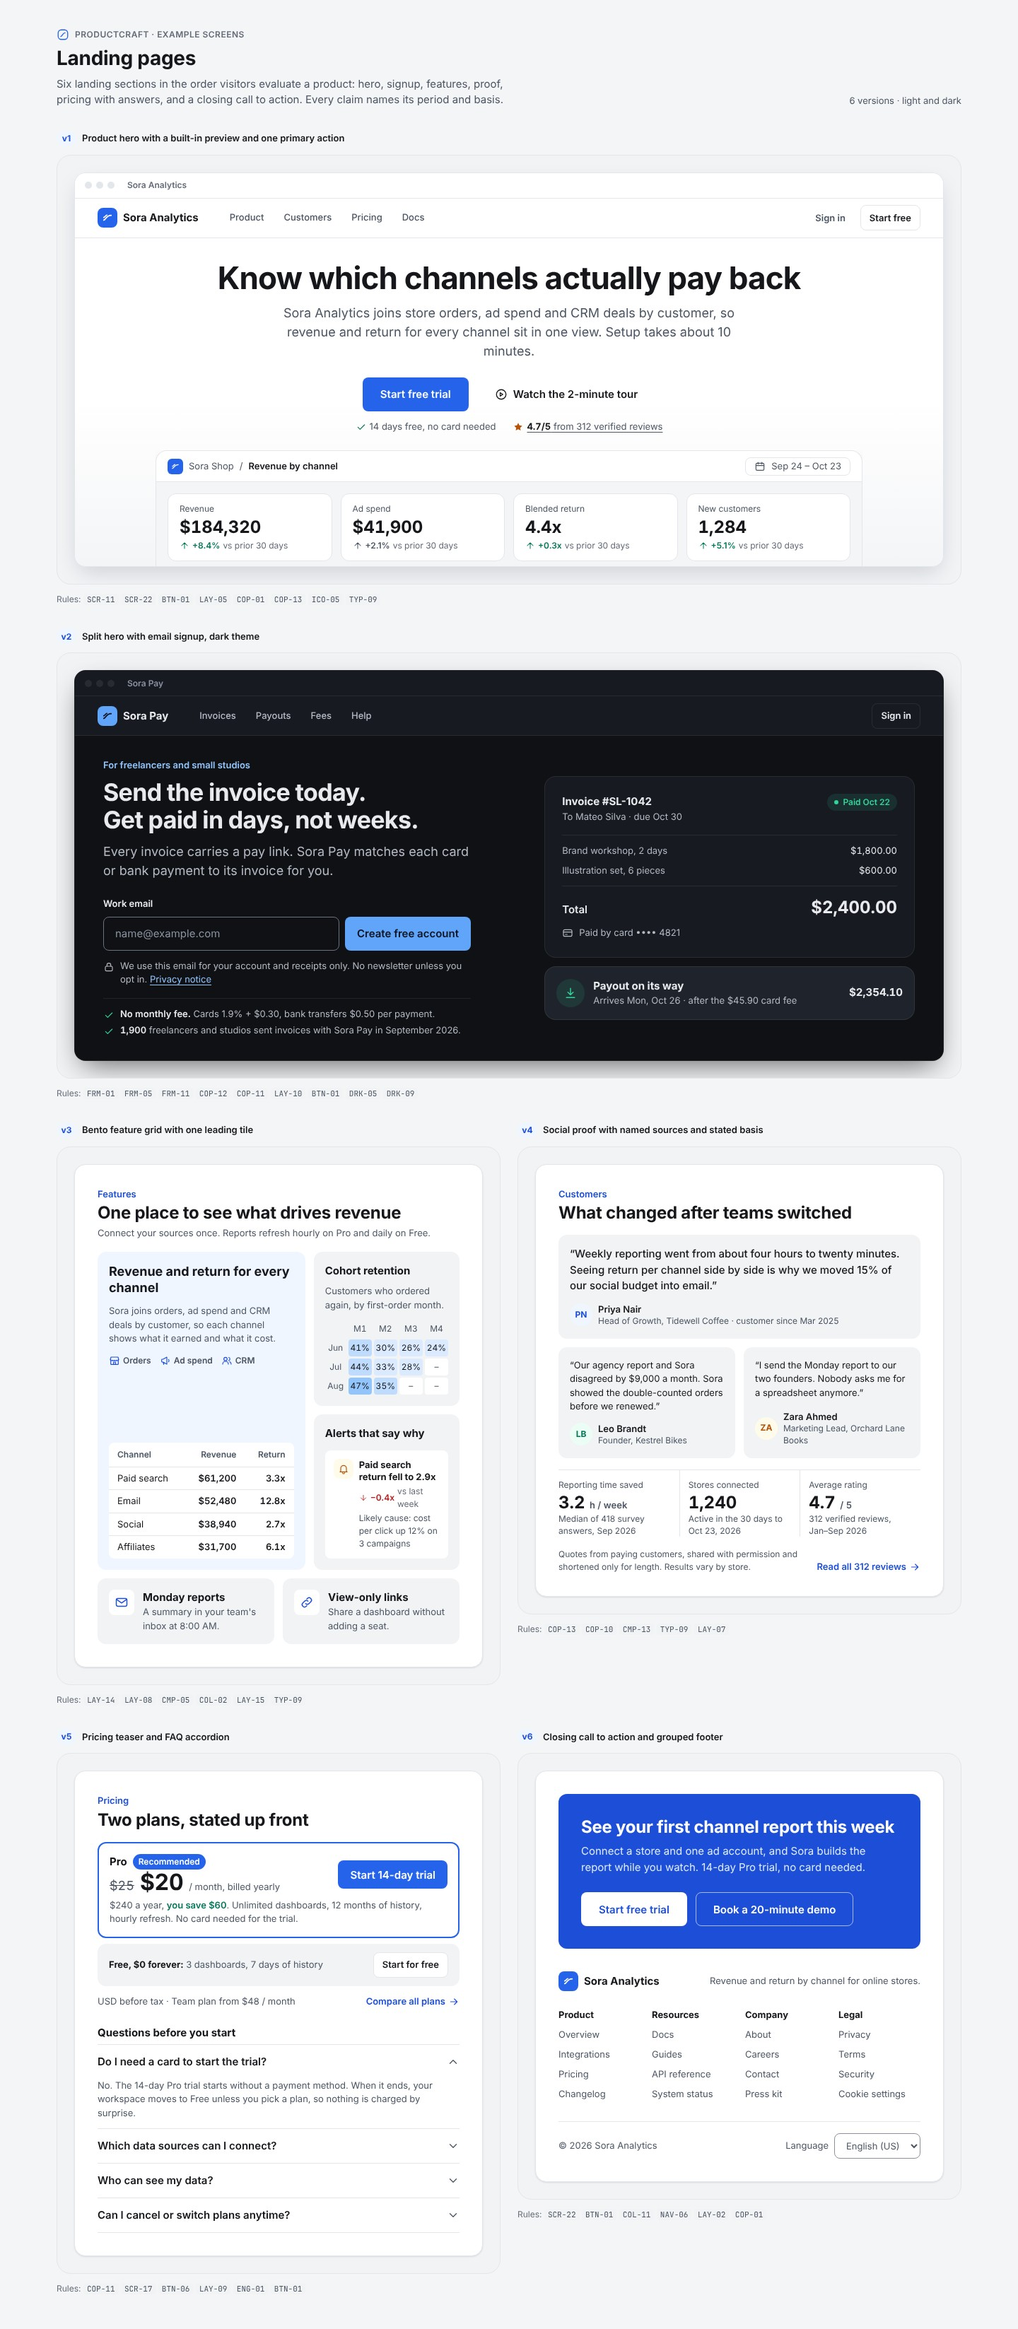
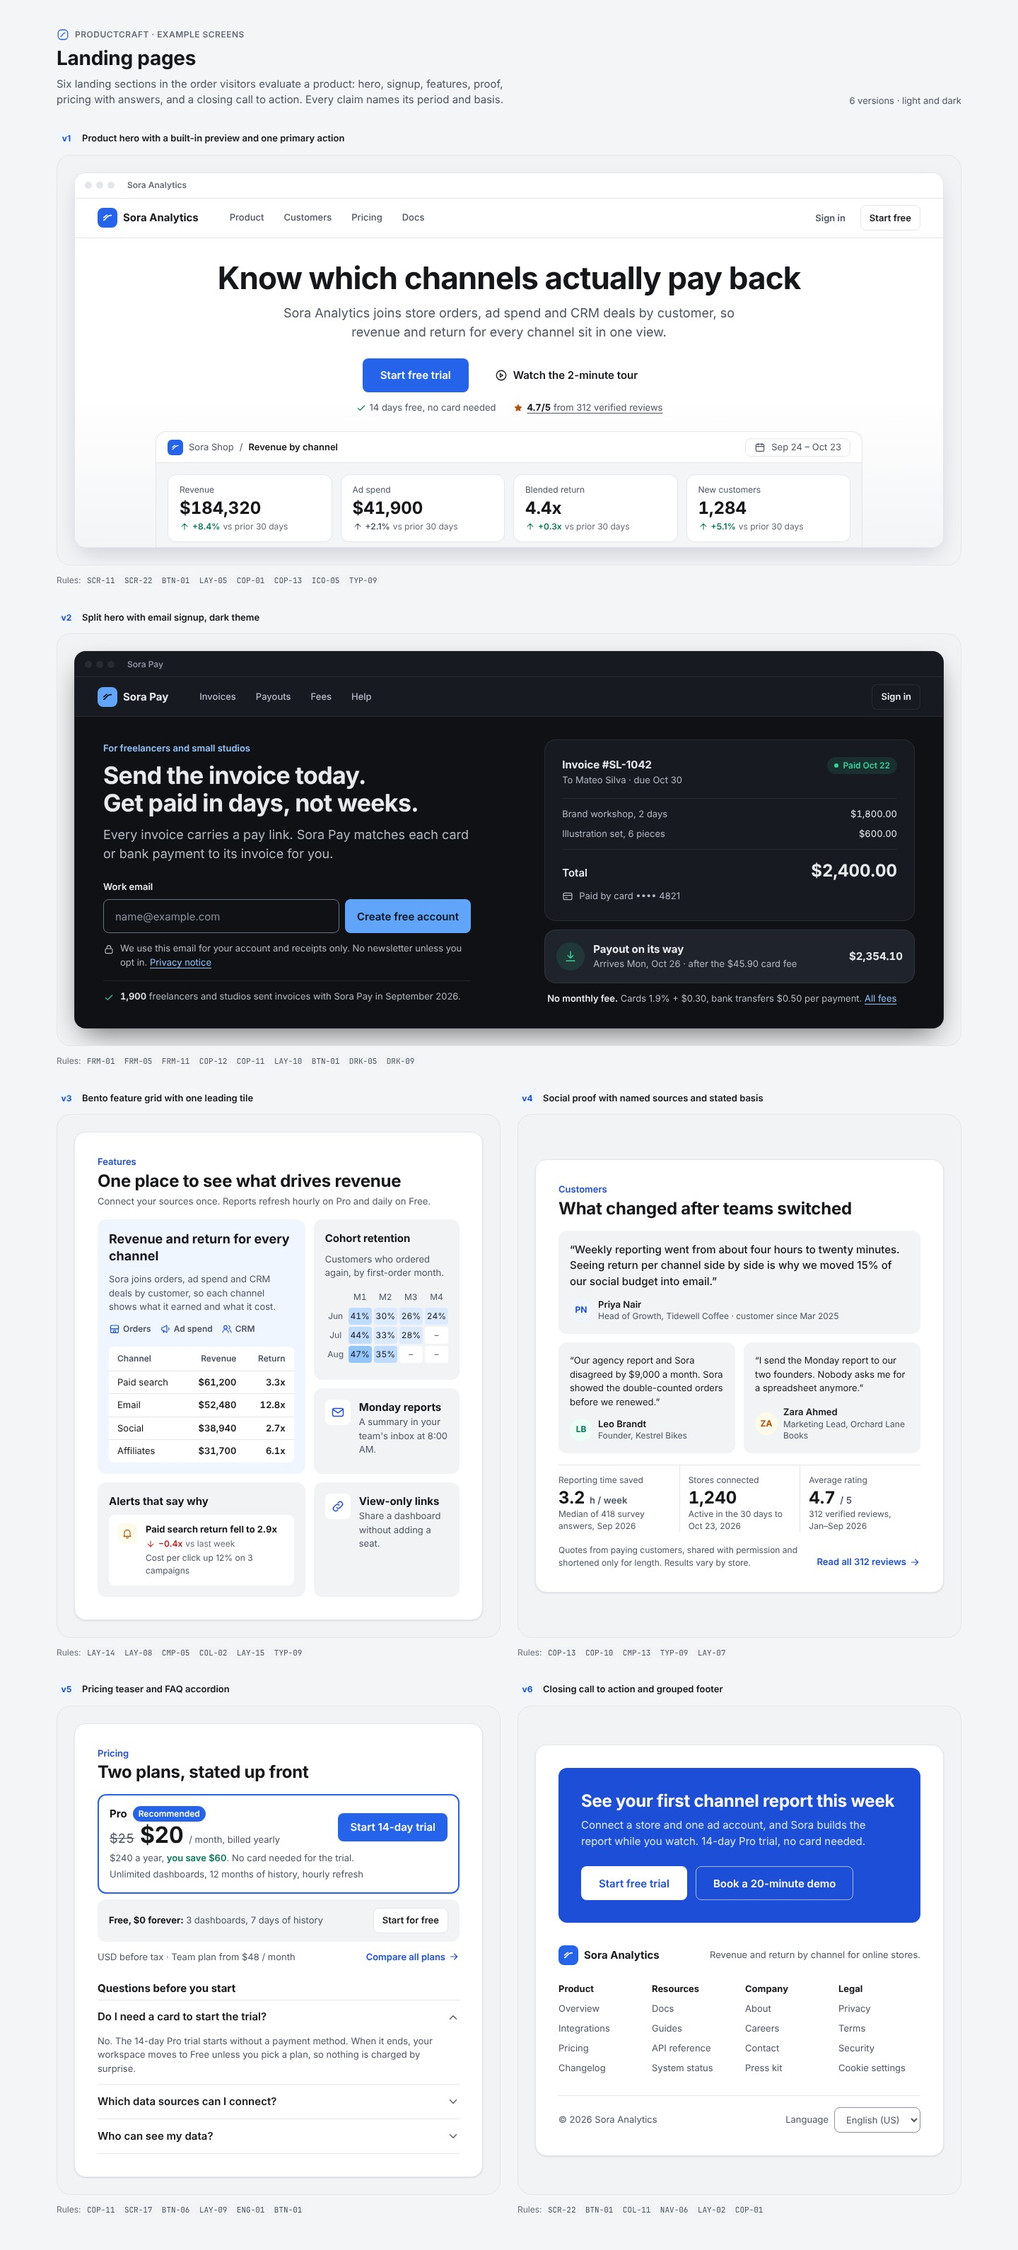
WIP: reference screens checkpoint
Claude-Session: https://claude.ai/code/session_018HZxTX6uw8LKZaqiiAUisJ

diff --git a/skills/productcraft/examples/landing.html b/skills/productcraft/examples/landing.html
@@ -24,7 +24,7 @@
       color: var(--text);
     }
 
-    .variant-stage { grid-template-columns: minmax(0, 1fr); padding: var(--space-5); }
+    .variant-stage { flex: 1; grid-template-columns: minmax(0, 1fr); padding: var(--space-5); }
     .window { color: var(--text); }
     .window-bar .title { margin-left: var(--space-3); font-size: var(--text-xs); color: var(--text-3); font-weight: 600; }
     svg.i { width: 20px; height: 20px; flex: none; }
@@ -104,8 +104,10 @@
     .privacy { display: flex; gap: var(--space-2); margin-top: var(--space-3); font-size: var(--text-sm); color: var(--text-2); }
     .privacy svg { width: 16px; height: 16px; margin-top: 3px; flex: none; color: var(--text-2); }
     .privacy a { text-decoration: underline; text-underline-offset: 3px; }
-    .facts { display: grid; gap: var(--space-1); max-width: 520px; margin-top: var(--space-4); padding-top: var(--space-3); border-top: 1px solid var(--border); font-size: var(--text-sm); color: var(--text-2); }
-    .facts li { display: flex; gap: var(--space-2); align-items: flex-start; }
+    .facts { display: flex; gap: var(--space-2); align-items: flex-start; max-width: 520px; margin-top: var(--space-4); padding-top: var(--space-3); border-top: 1px solid var(--border); font-size: var(--text-sm); color: var(--text-2); }
+    .fees { padding: 0 var(--space-1); font-size: var(--text-sm); color: var(--text-2); }
+    .fees strong { color: var(--text); font-weight: 600; }
+    .fees a { text-decoration: underline; text-underline-offset: 3px; }
     .facts svg { width: 16px; height: 16px; margin-top: 3px; flex: none; color: var(--success); }
     .facts strong { color: var(--text); font-weight: 600; }
 
@@ -140,13 +142,14 @@
     .tile-lead { grid-column: 1 / span 7; grid-row: span 2; gap: var(--space-3); background: var(--accent-soft); }
     .tile-lead h4 { font-size: var(--text-lg); line-height: 1.3; }
     .tile-side { grid-column: span 5; }
-    .tile-half { grid-column: span 6; flex-direction: row; align-items: flex-start; gap: var(--space-3); }
+    .tile-row { flex-direction: row; align-items: flex-start; gap: var(--space-3); }
+    .tile-wide { grid-column: span 7; }
     .tile-icon { display: grid; place-items: center; width: 36px; height: 36px; flex: none; border-radius: var(--radius-sm); background: var(--surface); color: var(--accent-ink); }
     .tile-icon svg { width: 20px; height: 20px; }
     .sources { display: flex; flex-wrap: wrap; gap: var(--space-1) var(--space-3); font-size: var(--text-xs); font-weight: 600; color: var(--text-2); }
     .sources li { display: inline-flex; align-items: center; gap: var(--space-1); }
     .sources svg { width: 16px; height: 16px; color: var(--accent-ink); }
-    .mini-table { width: 100%; margin-top: auto; border-collapse: collapse; background: var(--surface); border-radius: var(--radius-sm); font-size: var(--text-sm); overflow: hidden; }
+    .mini-table { width: 100%; margin-top: var(--space-1); border-collapse: collapse; background: var(--surface); border-radius: var(--radius-sm); font-size: var(--text-sm); overflow: hidden; }
     .mini-table th { padding: var(--space-2) var(--space-3); text-align: left; font-size: var(--text-xs); font-weight: 600; color: var(--text-2); border-bottom: 1px solid var(--border); }
     .mini-table td { padding: 6px var(--space-3); border-bottom: 1px solid var(--border); }
     .mini-table tr:last-child td { border-bottom: 0; }
@@ -159,12 +162,13 @@
     .cohort .c3 { background: #bfdbfe; color: var(--text); }
     .cohort .c2 { background: #dbeafe; color: var(--text); }
     .cohort .c1 { background: var(--surface); color: var(--text-2); }
-    .alert-row { display: grid; grid-template-columns: 28px minmax(0, 1fr); gap: var(--space-2); margin-top: var(--space-1); padding: var(--space-3); border-radius: var(--radius-sm); background: var(--surface); }
+    .alert-row { display: grid; grid-template-columns: 28px minmax(0, 1fr); gap: var(--space-3); padding: var(--space-3); border-radius: var(--radius-sm); background: var(--surface); }
     .alert-row .tile-icon { width: 28px; height: 28px; background: var(--warning-soft); color: var(--warning); }
     .alert-row .tile-icon svg { width: 16px; height: 16px; }
     .alert-row strong { display: block; font-size: var(--text-sm); line-height: 1.35; }
-    .alert-row .delta { margin-top: 2px; font-size: var(--text-xs); }
-    .alert-cause { display: block; margin-top: 2px; font-size: var(--text-xs); color: var(--text-2); }
+    .alert-row .delta { font-size: var(--text-xs); }
+    .alert-cause { font-size: var(--text-xs); color: var(--text-2); }
+    .alert-meta { display: flex; flex-wrap: wrap; align-items: center; gap: 2px var(--space-2); margin-top: 2px; }
 
     /* v4 honest social proof: named people, roles, scale, sample size and period (COP-13) */
     .quote { display: flex; flex-direction: column; justify-content: space-between; gap: var(--space-3); margin: 0; padding: var(--space-4); border-radius: var(--radius-md); background: var(--surface-2); }
@@ -307,7 +311,7 @@
 
             <section class="hero" aria-labelledby="hero-title">
               <h3 class="hero-title" id="hero-title">Know which channels actually pay back</h3>
-              <p class="hero-lede">Sora Analytics joins store orders, ad spend and CRM deals by customer, so revenue and return for every channel sit in one view. Setup takes about 10 minutes.</p>
+              <p class="hero-lede">Sora Analytics joins store orders, ad spend and CRM deals by customer, so revenue and return for every channel sit in one view.</p>
               <div class="hero-actions">
                 <a class="btn btn-primary btn-lg" href="#trial">Start free trial</a>
                 <a class="btn btn-ghost btn-lg" href="#tour"><svg aria-hidden="true"><use href="#i-play"/></svg>Watch the 2-minute tour</a>
@@ -392,10 +396,7 @@
                   <p class="privacy" id="su-note"><svg aria-hidden="true"><use href="#i-lock"/></svg><span>We use this email for your account and receipts only. No newsletter unless you opt in. <a href="#privacy">Privacy notice</a></span></p>
                 </form>
 
-                <ul class="facts">
-                  <li><svg aria-hidden="true"><use href="#i-check"/></svg><span><strong>No monthly fee.</strong> Cards 1.9% + $0.30, bank transfers $0.50 per payment.</span></li>
-                  <li><svg aria-hidden="true"><use href="#i-check"/></svg><span><strong class="num">1,900</strong> freelancers and studios sent invoices with Sora Pay in September 2026.</span></li>
-                </ul>
+                <p class="facts"><svg aria-hidden="true"><use href="#i-check"/></svg><span><strong class="num">1,900</strong> freelancers and studios sent invoices with Sora Pay in September 2026.</span></p>
               </div>
 
               <div class="invoice-stack" role="img" aria-label="Example invoice #SL-1042 for $2,400.00, paid by card on Oct 22, with a payout of $2,354.10 arriving Monday, Oct 26">
@@ -416,6 +417,7 @@
                   <p><strong>Payout on its way</strong>Arrives Mon, Oct 26 · after the $45.90 card fee</p>
                   <span class="num">$2,354.10</span>
                 </div>
+                <p class="fees"><strong>No monthly fee.</strong> Cards 1.9% + $0.30, bank transfers $0.50 per payment. <a href="#fees">All fees</a></p>
               </div>
             </section>
           </div>
@@ -465,24 +467,23 @@
                 </div>
               </article>
 
-              <article class="tile tile-side">
+              <article class="tile tile-side tile-row">
+                <span class="tile-icon"><svg aria-hidden="true"><use href="#i-mail"/></svg></span>
+                <div><h4>Monday reports</h4><p>A summary in your team's inbox at 8:00 AM.</p></div>
+              </article>
+
+              <article class="tile tile-wide">
                 <h4>Alerts that say why</h4>
                 <div class="alert-row">
                   <span class="tile-icon"><svg aria-hidden="true"><use href="#i-bell"/></svg></span>
                   <div>
                     <strong>Paid search return fell to 2.9x</strong>
-                    <span class="delta delta-bad"><svg aria-hidden="true"><use href="#i-down"/></svg>&minus;0.4x <span class="period">vs last week</span></span>
-                    <span class="alert-cause">Likely cause: cost per click up 12% on 3 campaigns</span>
+                    <div class="alert-meta"><span class="delta delta-bad"><svg aria-hidden="true"><use href="#i-down"/></svg>&minus;0.4x <span class="period">vs last week</span></span><span class="alert-cause">Cost per click up 12% on 3 campaigns</span></div>
                   </div>
                 </div>
               </article>
 
-              <article class="tile tile-half">
-                <span class="tile-icon"><svg aria-hidden="true"><use href="#i-mail"/></svg></span>
-                <div><h4>Monday reports</h4><p>A summary in your team's inbox at 8:00 AM.</p></div>
-              </article>
-
-              <article class="tile tile-half">
+              <article class="tile tile-side tile-row">
                 <span class="tile-icon"><svg aria-hidden="true"><use href="#i-link"/></svg></span>
                 <div><h4>View-only links</h4><p>Share a dashboard without adding a seat.</p></div>
               </article>
@@ -545,7 +546,8 @@
                   <p class="price"><s class="num">$25</s><span class="amt num">$20</span><span class="per">/ month, billed yearly</span></p>
                 </div>
                 <a class="btn btn-primary" href="#trial">Start 14-day trial</a>
-                <p class="terms">$240 a year, <strong>you save $60</strong>. Unlimited dashboards, 12 months of history, hourly refresh. No card needed for the trial.</p>
+                <p class="terms">$240 a year, <strong>you save $60</strong>. No card needed for the trial.</p>
+                <p class="terms">Unlimited dashboards, 12 months of history, hourly refresh</p>
               </article>
               <div class="plan-free">
                 <span><strong>Free, $0 forever:</strong> 3 dashboards, 7 days of history</span>
@@ -567,10 +569,6 @@
               <details>
                 <summary>Who can see my data?<svg aria-hidden="true"><use href="#i-chevron"/></svg></summary>
                 <p>Only members you invite. Connections are read-only, data is encrypted in transit and at rest, and deleting a source deletes its data.</p>
-              </details>
-              <details>
-                <summary>Can I cancel or switch plans anytime?<svg aria-hidden="true"><use href="#i-chevron"/></svg></summary>
-                <p>Yes, from Settings. Yearly plans are refunded for unused full months, and dashboards above the Free limit become view-only.</p>
               </details>
             </div>
           </section>

diff --git a/skills/productcraft/examples/dashboard-v6.html b/skills/productcraft/examples/dashboard-v6.html
@@ -177,14 +177,15 @@
     .goal-track span { display: block; width: calc(var(--v) * 1%); height: 100%; background: var(--accent); border-radius: inherit; }
     .bars { position: relative; display: grid; grid-template-columns: repeat(8, minmax(0, 1fr)); align-items: end; gap: var(--space-2); height: 148px; margin-top: var(--space-6); border-bottom: 1px solid var(--border); }
     .bars .goal-line { position: absolute; left: 0; right: 0; bottom: calc(var(--p) * 1%); border-top: 1.5px dashed var(--text-3); pointer-events: none; }
-    .bars .goal-tag { position: absolute; right: 0; bottom: calc(var(--p) * 1% + 2px); padding-left: var(--space-1); background: var(--surface); font-size: var(--text-xs); font-weight: 600; color: var(--text-2); }
     .bar { position: relative; display: flex; flex-direction: column; align-items: center; justify-content: flex-end; height: 100%; }
-    .bar .v { font-size: 11px; font-weight: 600; color: var(--text-2); line-height: 16px; }
+    .bar .v { font-size: 11px; font-weight: 700; color: var(--text); line-height: 16px; }
+    .bar .col .v { display: block; padding-top: var(--space-1); color: var(--on-accent); text-align: center; }
     .bar .met { width: 14px; height: 14px; color: var(--success); }
-    .bar .col { width: 100%; max-width: 24px; height: calc(var(--h) * 1%); border-radius: 4px 4px 0 0; background: var(--accent); }
+    .bar .col { width: 100%; max-width: 28px; height: calc(var(--h) * 1%); border-radius: 4px 4px 0 0; background: var(--accent); }
     .bar.is-current .col { background: repeating-linear-gradient(-45deg, var(--accent) 0 3px, #d98a66 3px 6px); }
     .bar.is-current .v { color: var(--text); }
-    .bar-x { display: grid; grid-template-columns: repeat(8, minmax(0, 1fr)); gap: var(--space-2); margin-top: var(--space-2); font-size: 11px; color: var(--text-3); text-align: center; }
+    .bar-x { display: grid; grid-template-columns: repeat(8, minmax(0, 1fr)); gap: var(--space-2); margin-top: var(--space-2); font-size: 11px; color: var(--text-3); text-align: center; white-space: nowrap; }
+    .bar-x span { display: flex; justify-content: center; }
     .bar-x span:last-child { color: var(--text); font-weight: 600; }
     .chart-key { display: flex; flex-wrap: wrap; gap: var(--space-2) var(--space-4); margin-top: var(--space-3); font-size: var(--text-xs); color: var(--text-3); }
     .chart-key span { display: inline-flex; align-items: center; gap: var(--space-1); }
@@ -204,6 +205,8 @@
     .deadline-body small { display: flex; align-items: center; gap: var(--space-2); font-size: var(--text-xs); color: var(--text-3); }
     .deadline-body small i { width: 8px; height: 8px; border-radius: 2px; flex: none; }
     .kind { font-weight: 600; color: var(--text-2); }
+    .deadline-body .due { display: block; margin-top: 2px; font-size: var(--text-xs); color: var(--text-2); }
+    .deadline { padding: var(--space-3) 0; }
 
     @media (max-width: 1280px) {
       .app { grid-template-columns: 220px minmax(0, 1fr); }
@@ -299,8 +302,8 @@
           <svg viewBox="0 0 24 24" fill="none" stroke="currentColor" stroke-width="1.75" stroke-linecap="round" stroke-linejoin="round" aria-hidden="true"><path d="M5 12h14M13 6l6 6-6 6"/></svg>
           Up next for you
         </p>
-        <h2 id="next-title">Lesson 4.3: Joining three or more tables</h2>
-        <p class="course">Data Analysis with SQL · Module 4, Combining data</p>
+        <h2 id="next-title">Joining three or more tables</h2>
+        <p class="course">Lesson 4.3 · Data Analysis with SQL, Module 4</p>
         <ul class="next-meta">
           <li><svg viewBox="0 0 24 24" fill="none" stroke="currentColor" stroke-width="1.75" stroke-linecap="round" stroke-linejoin="round" aria-hidden="true"><circle cx="12" cy="12" r="8.5"/><path d="M12 7.5V12l3 2"/></svg><span class="num">18 min</span></li>
           <li><svg viewBox="0 0 24 24" fill="none" stroke="currentColor" stroke-width="1.75" stroke-linecap="round" stroke-linejoin="round" aria-hidden="true"><rect x="3.5" y="5.5" width="17" height="13" rx="2.5"/><path d="M10.5 9.5v5l4-2.5z"/></svg>Video and 6 practice queries</li>
@@ -385,7 +388,7 @@
       <div class="bar-x" id="bar-x" aria-hidden="true"></div>
       <p class="chart-key">
         <span><svg viewBox="0 0 24 24" fill="none" stroke="currentColor" stroke-width="2.5" stroke-linecap="round" stroke-linejoin="round" aria-hidden="true"><path d="m5 12.5 4.5 4.5L19 7.5"/></svg>Goal met</span>
-        <span><i aria-hidden="true"></i>Weekly goal</span>
+        <span><i aria-hidden="true"></i>Goal, 150 min</span>
         <span>Weeks start Monday</span>
       </p>
       <table class="visually-hidden" id="minutes-table">
@@ -494,11 +497,12 @@
     const current = i === weeks.length - 1;
     const b = el("div", "bar" + (current ? " is-current" : ""));
     if (m >= goal && !current) { const ok = el("span", "met"); ok.innerHTML = check; b.append(ok); }
-    b.append(el("span", "v num", String(m)));
-    const col = el("span", "col"); col.style.setProperty("--h", (m / max) * 100 - 0); b.append(col);
+    const col = el("span", "col"); col.style.setProperty("--h", (m / max) * 100);
+    const v = el("span", "v num", String(m));
+    if (current) b.append(v); else col.append(v);
+    b.append(col);
     bars.append(b);
   });
-  const gtag = el("span", "goal-tag num", goal + " min"); gtag.style.setProperty("--p", (goal / max) * 100); bars.append(gtag);
   document.getElementById("bar-x").replaceChildren(...weeks.map(([w], i) => el("span", null, i === weeks.length - 1 ? "Now" : i % 2 ? "" : w)));
   document.querySelector("#minutes-table tbody").replaceChildren(...weeks.map(([w, m], i) => {
     const tr = el("tr"); const th = el("th", null, w); th.scope = "row";
@@ -519,8 +523,8 @@
     const body = el("div", "deadline-body");
     const title = el("strong"); title.append(el("span", "kind", d.kind + ": "), d.title);
     const meta = el("small"); const dot = el("i"); dot.style.background = courseTint[d.course]; dot.setAttribute("aria-hidden", "true");
-    meta.append(dot, `Due ${fmt({ weekday: "short", month: "short", day: "numeric" }).format(d.due)} · ${courseName[d.course]}`);
-    body.append(title, meta);
+    meta.append(dot, courseName[d.course]);
+    body.append(title, el("span", "due", "Due " + fmt({ weekday: "short", month: "short", day: "numeric" }).format(d.due)), meta);
     li.setAttribute("aria-label", `${d.kind}: ${d.title}, due ${fmt({ weekday: "long", month: "long", day: "numeric" }).format(d.due)}, ${left} days left`);
     li.append(tile, body); return li;
   }));

diff --git a/skills/productcraft/examples/dashboard-v15.html b/skills/productcraft/examples/dashboard-v15.html
@@ -161,6 +161,7 @@
     .ok-mark { display: inline-flex; align-items: center; gap: var(--space-1); color: var(--success); }
     .ok-mark svg, .bad-mark svg { width: 14px; height: 14px; }
     .bad-mark { display: inline-flex; align-items: center; gap: var(--space-1); color: var(--warning); }
+    .facts dd small.ok-mark, .facts dd small.bad-mark { display: flex; }
 
     .d-cols { display: grid; grid-template-columns: minmax(0, 1.35fr) minmax(0, 1fr); gap: var(--space-6); align-items: start; }
     .d-section h3 { margin-bottom: var(--space-3); }

diff --git a/skills/productcraft/examples/buttons-2.html b/skills/productcraft/examples/buttons-2.html
@@ -12,7 +12,7 @@
   <link rel="stylesheet" href="tokens.css">
   <link rel="stylesheet" href="gallery.css">
   <style>
-    /* Extra tokens: pressed fill, destructive hover and a scrim that keeps labels on it legible (BTN-02, COL-12) */
+    /* Extra tokens: pressed fill, destructive hover and a scrim behind the open speed dial (BTN-02) */
     :root { --accent-press: #3730a3; --danger-hover: #991b1b; --scrim: rgba(15, 17, 21, 0.56); }
     [data-theme="dark"] { --accent-press: #c7d2fe; --danger-hover: #fca5a5; color: var(--text); }
 

diff --git a/skills/productcraft/examples/onboarding-2.html b/skills/productcraft/examples/onboarding-2.html
@@ -1,8 +1,7 @@
 <!doctype html>
 <!-- ProductCraft example: onboarding-2. Original Sora Labs example, MIT License.
      Demonstrates: CMP-31, FBK-06, SCR-09, SCR-14, BTN-01, COP-01, CMP-12, CMP-11, FBK-05, BTN-09, FRM-06, FRM-05,
-     FRM-12, FRM-27, SCR-02, COP-10, CMP-19, MOB-08, BTN-16, BTN-04, MOB-03, ICO-05, COP-03, FBK-07, FBK-03,
-     BTN-06, LAY-05 -->
+     FRM-27, SCR-02, COP-10, CMP-19, MOB-08, BTN-16, BTN-04, MOB-03, ICO-05, FBK-07, FBK-03, BTN-06, LAY-05 -->
 <html lang="en">
 <head>
   <meta charset="utf-8">

diff --git a/skills/productcraft/examples/overlays.html b/skills/productcraft/examples/overlays.html
@@ -563,7 +563,7 @@
   </main>
 
   <script>
-    // CMP-14, P42-style menu keyboard: arrows, Home/End and first-letter jumps move focus; Escape and Tab close; focus returns to the trigger.
+    // CMP-14: menu keyboard: arrows, Home/End and first-letter jumps move focus; Escape and Tab close; focus returns to the trigger.
     function menuKeys(menu, close) {
       const items = () => [...menu.querySelectorAll('[role="menuitem"]')];
       menu.addEventListener("keydown", (e) => {
